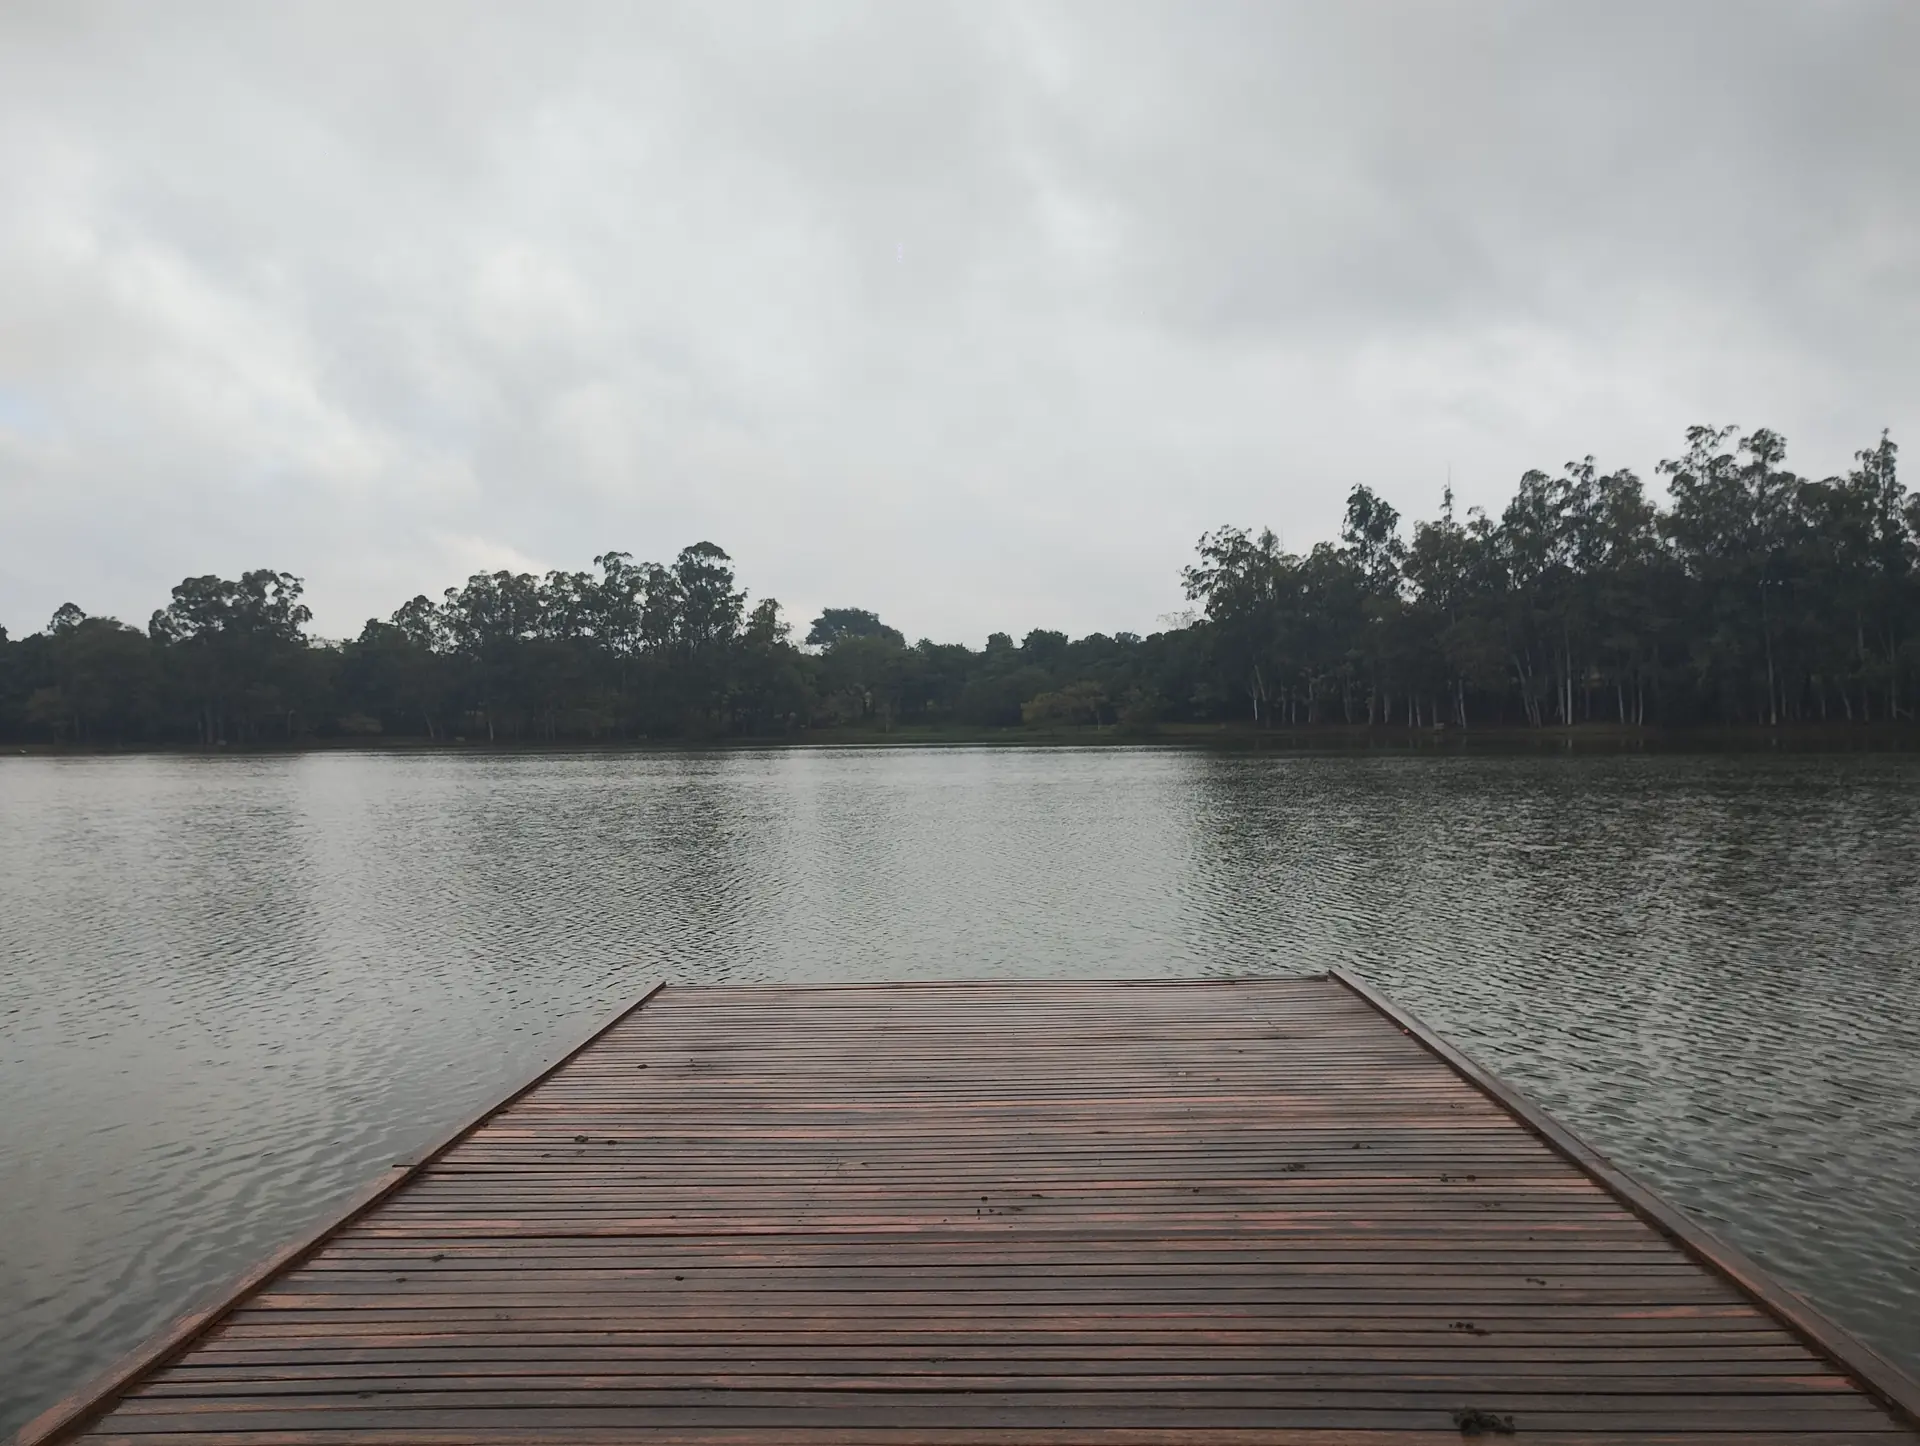
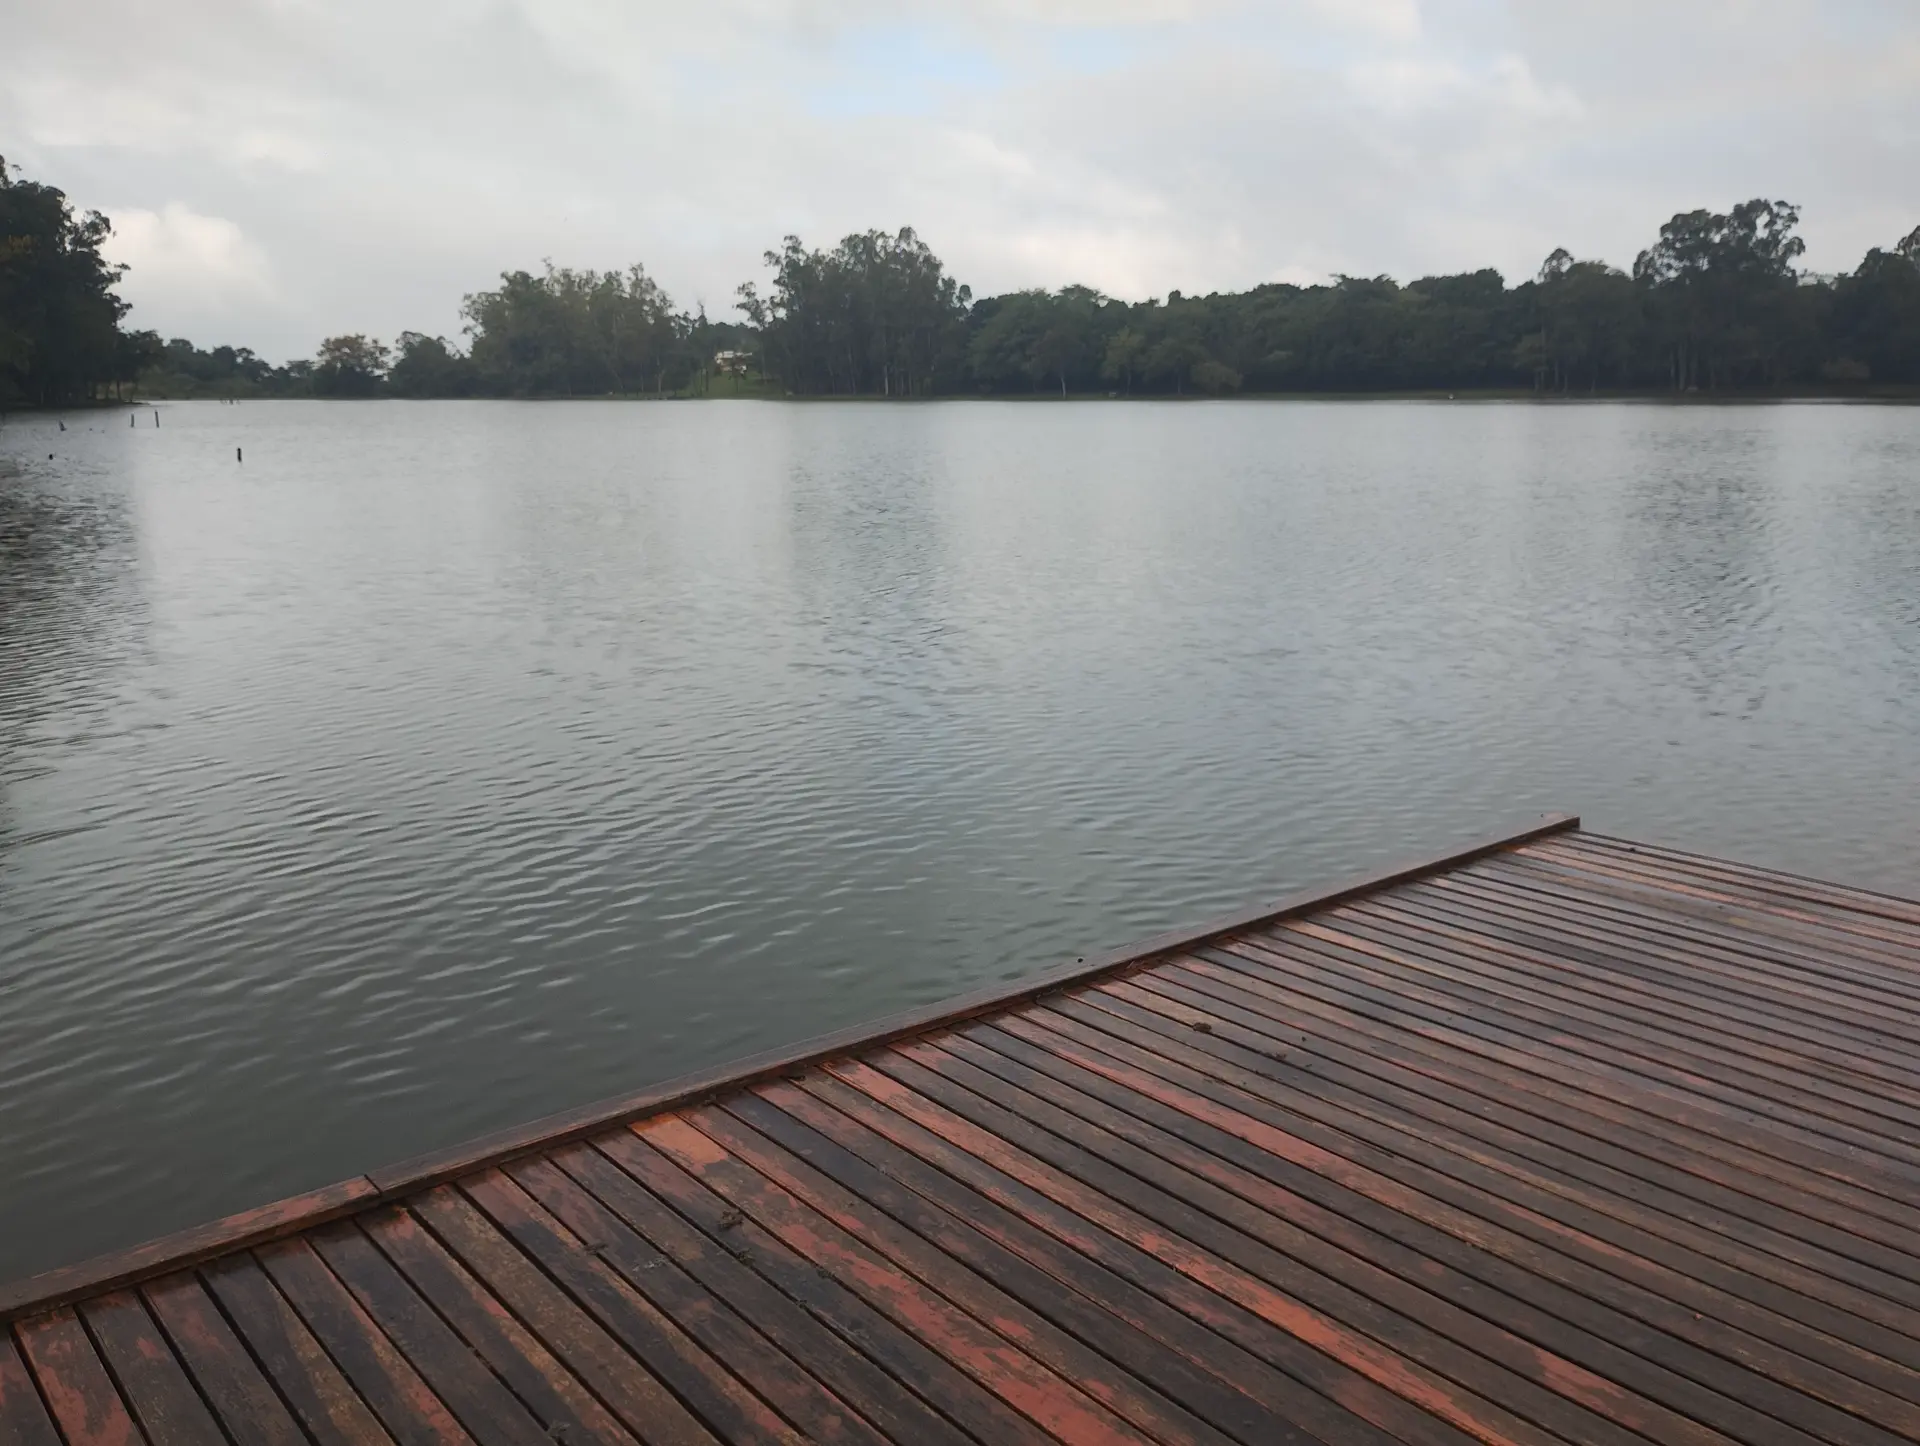
fix: bg-lago.webp atualizado + race condition biometria corrigida
- bg-lago.webp: substituído pelo ângulo lateral do deck/lago (IMG_20260612_100432668),
  129KB WebP. Dashboard usa este arquivo como background.
- AuthContext: LOGGED_OUT_KEY removida ANTES de supabase.auth.setSession()
  para evitar que o handler SIGNED_IN interprete a restauração biométrica
  como login espúrio pós-logout e cancele a sessão imediatamente.

diff --git a/frontend/src/contexts/AuthContext.tsx b/frontend/src/contexts/AuthContext.tsx
@@ -218,12 +218,14 @@ export const AuthProvider = ({ children }: { children: ReactNode }) => {
     // Os tokens são protegidos pela biometria: só chegamos aqui após verifyBiometric().
     const bio = getBiometricState();
     if (bio.enabled && bio.accessToken && bio.refreshToken) {
+      // Remove a flag ANTES de setSession para que o handler SIGNED_IN
+      // não interprete o evento como login espúrio pós-logout.
+      localStorage.removeItem(LOGGED_OUT_KEY);
       const { data, error } = await supabase.auth.setSession({
         access_token:  bio.accessToken,
         refresh_token: bio.refreshToken,
       });
       if (!error && data.session?.user) {
-        localStorage.removeItem(LOGGED_OUT_KEY);
         storeSessionTokens(data.session.access_token, data.session.refresh_token);
         setSession(data.session);
         const profile = await fetchProfile(data.session.user);
@@ -231,6 +233,7 @@ export const AuthProvider = ({ children }: { children: ReactNode }) => {
         return true;
       }
       // Refresh token expirado (>7 dias sem uso) — limpa para forçar senha
+      localStorage.setItem(LOGGED_OUT_KEY, '1');
       clearBiometricTokens();
     }
 